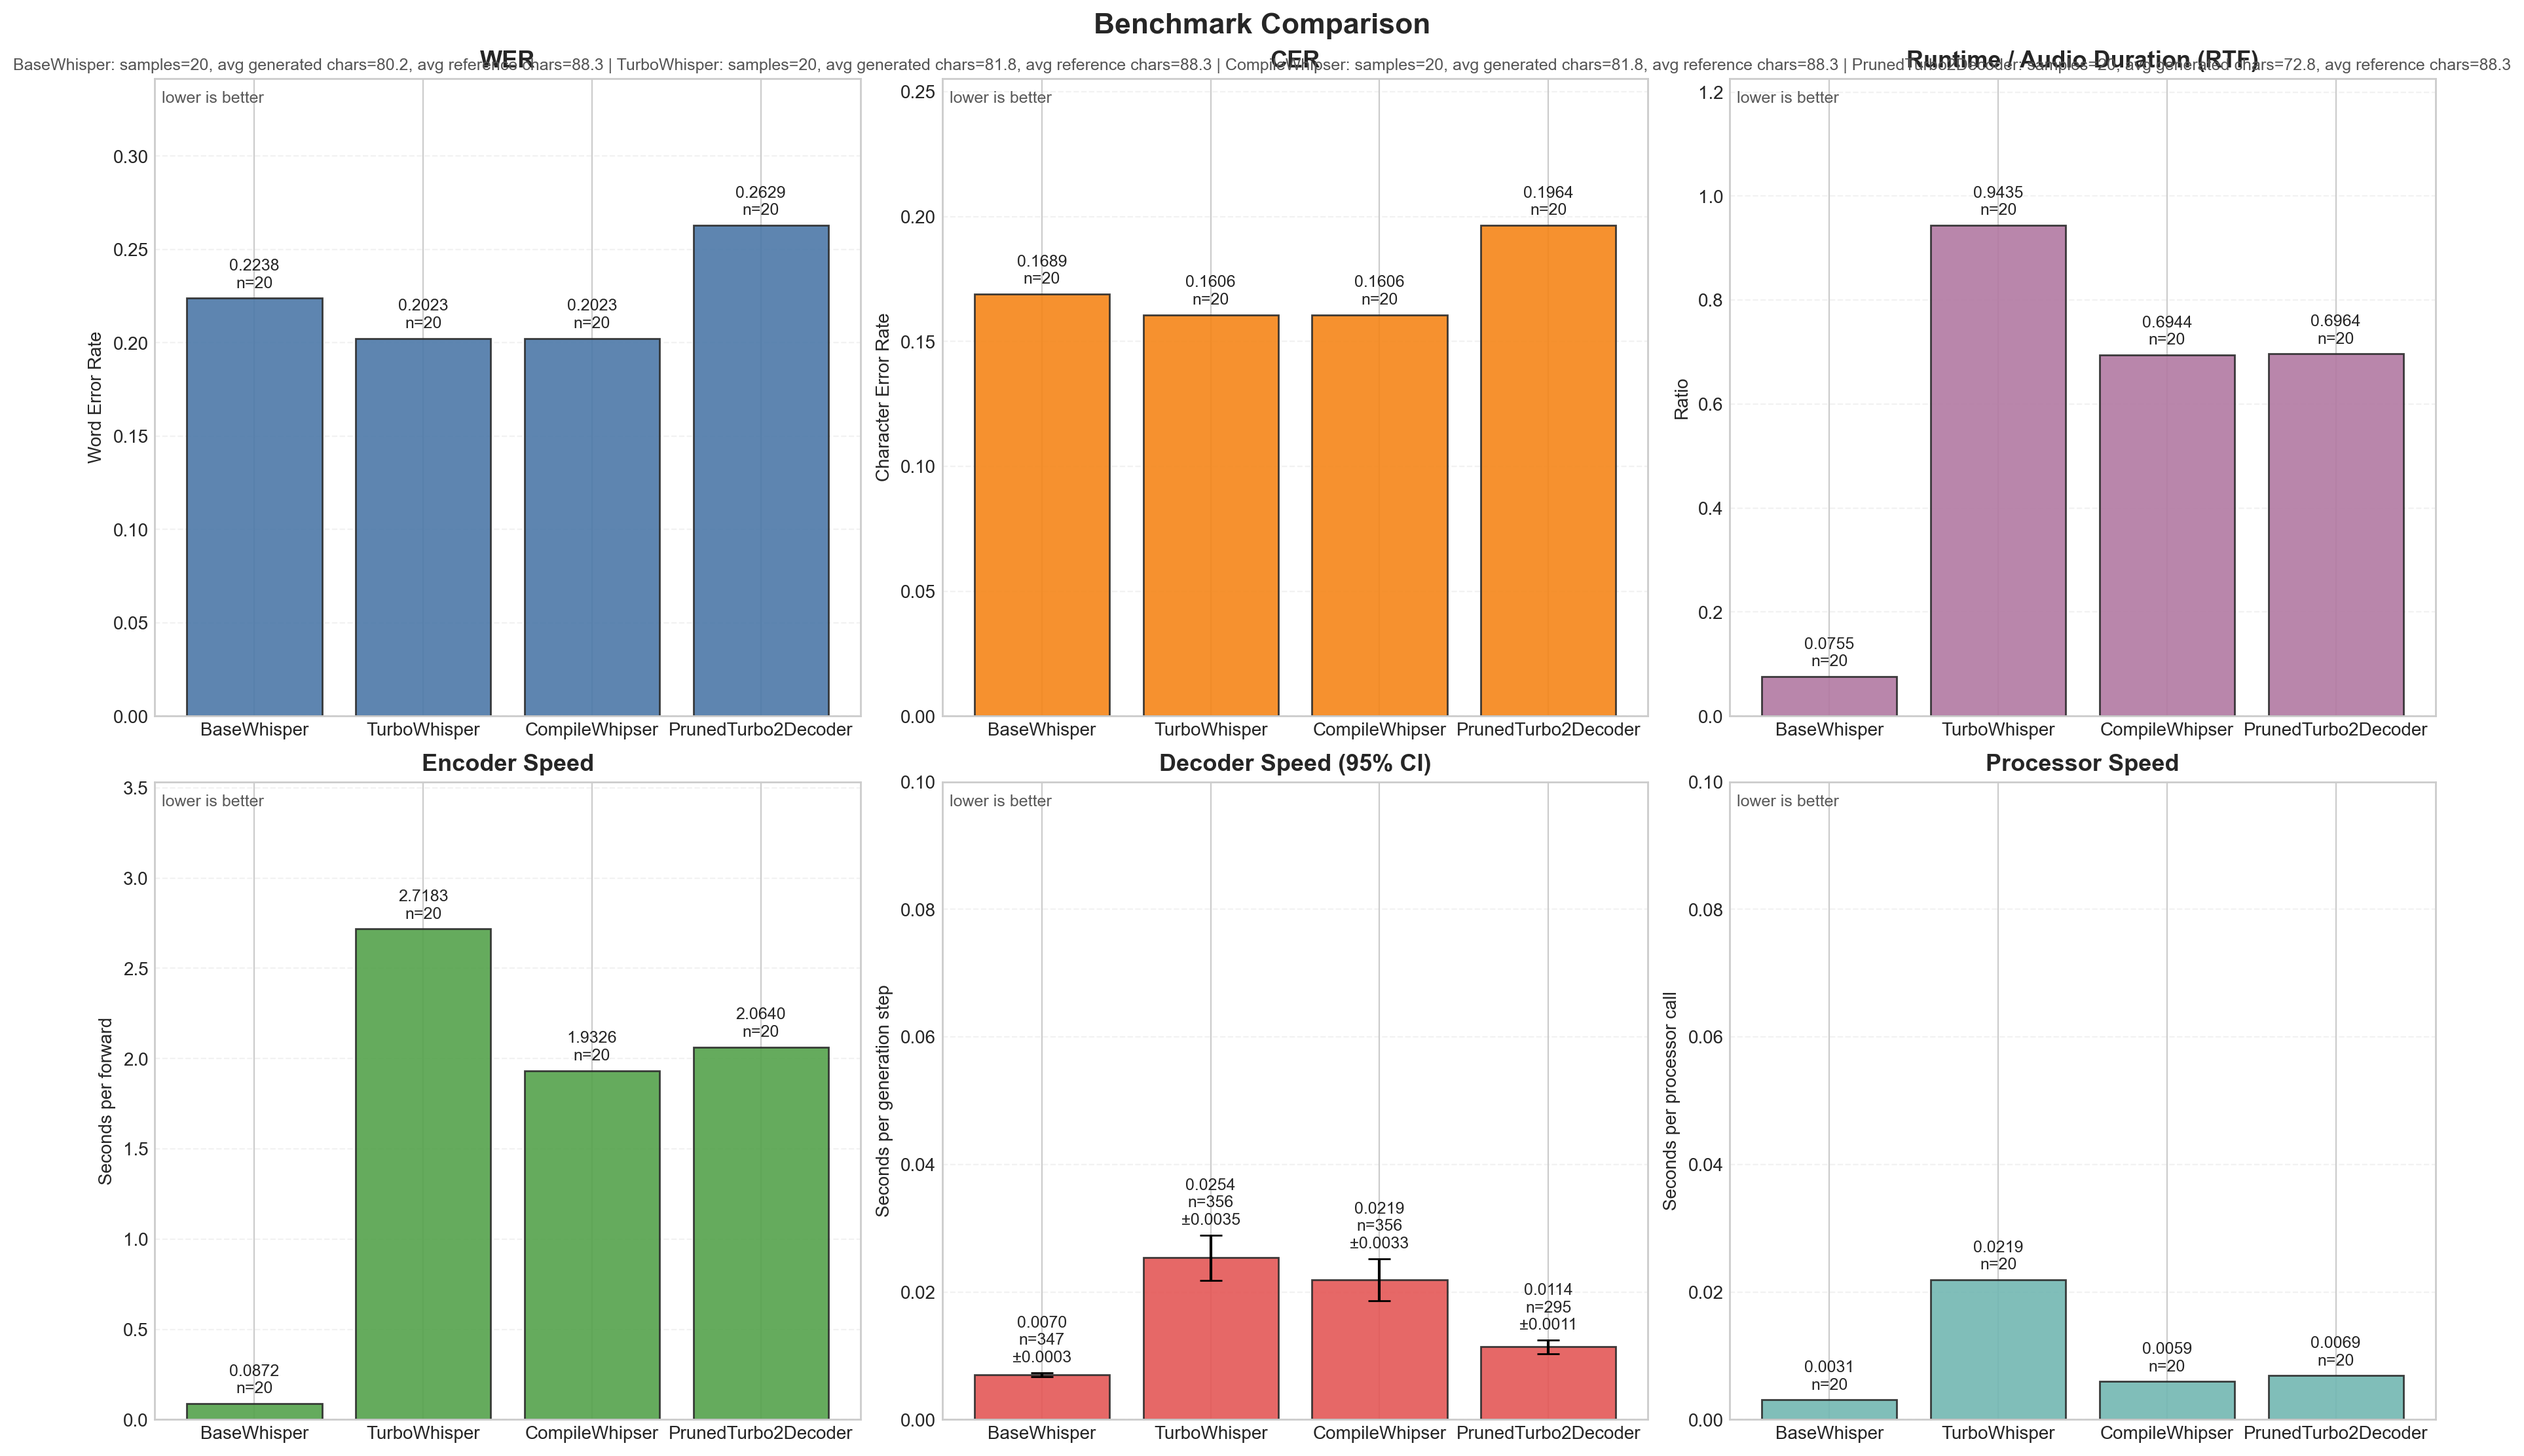
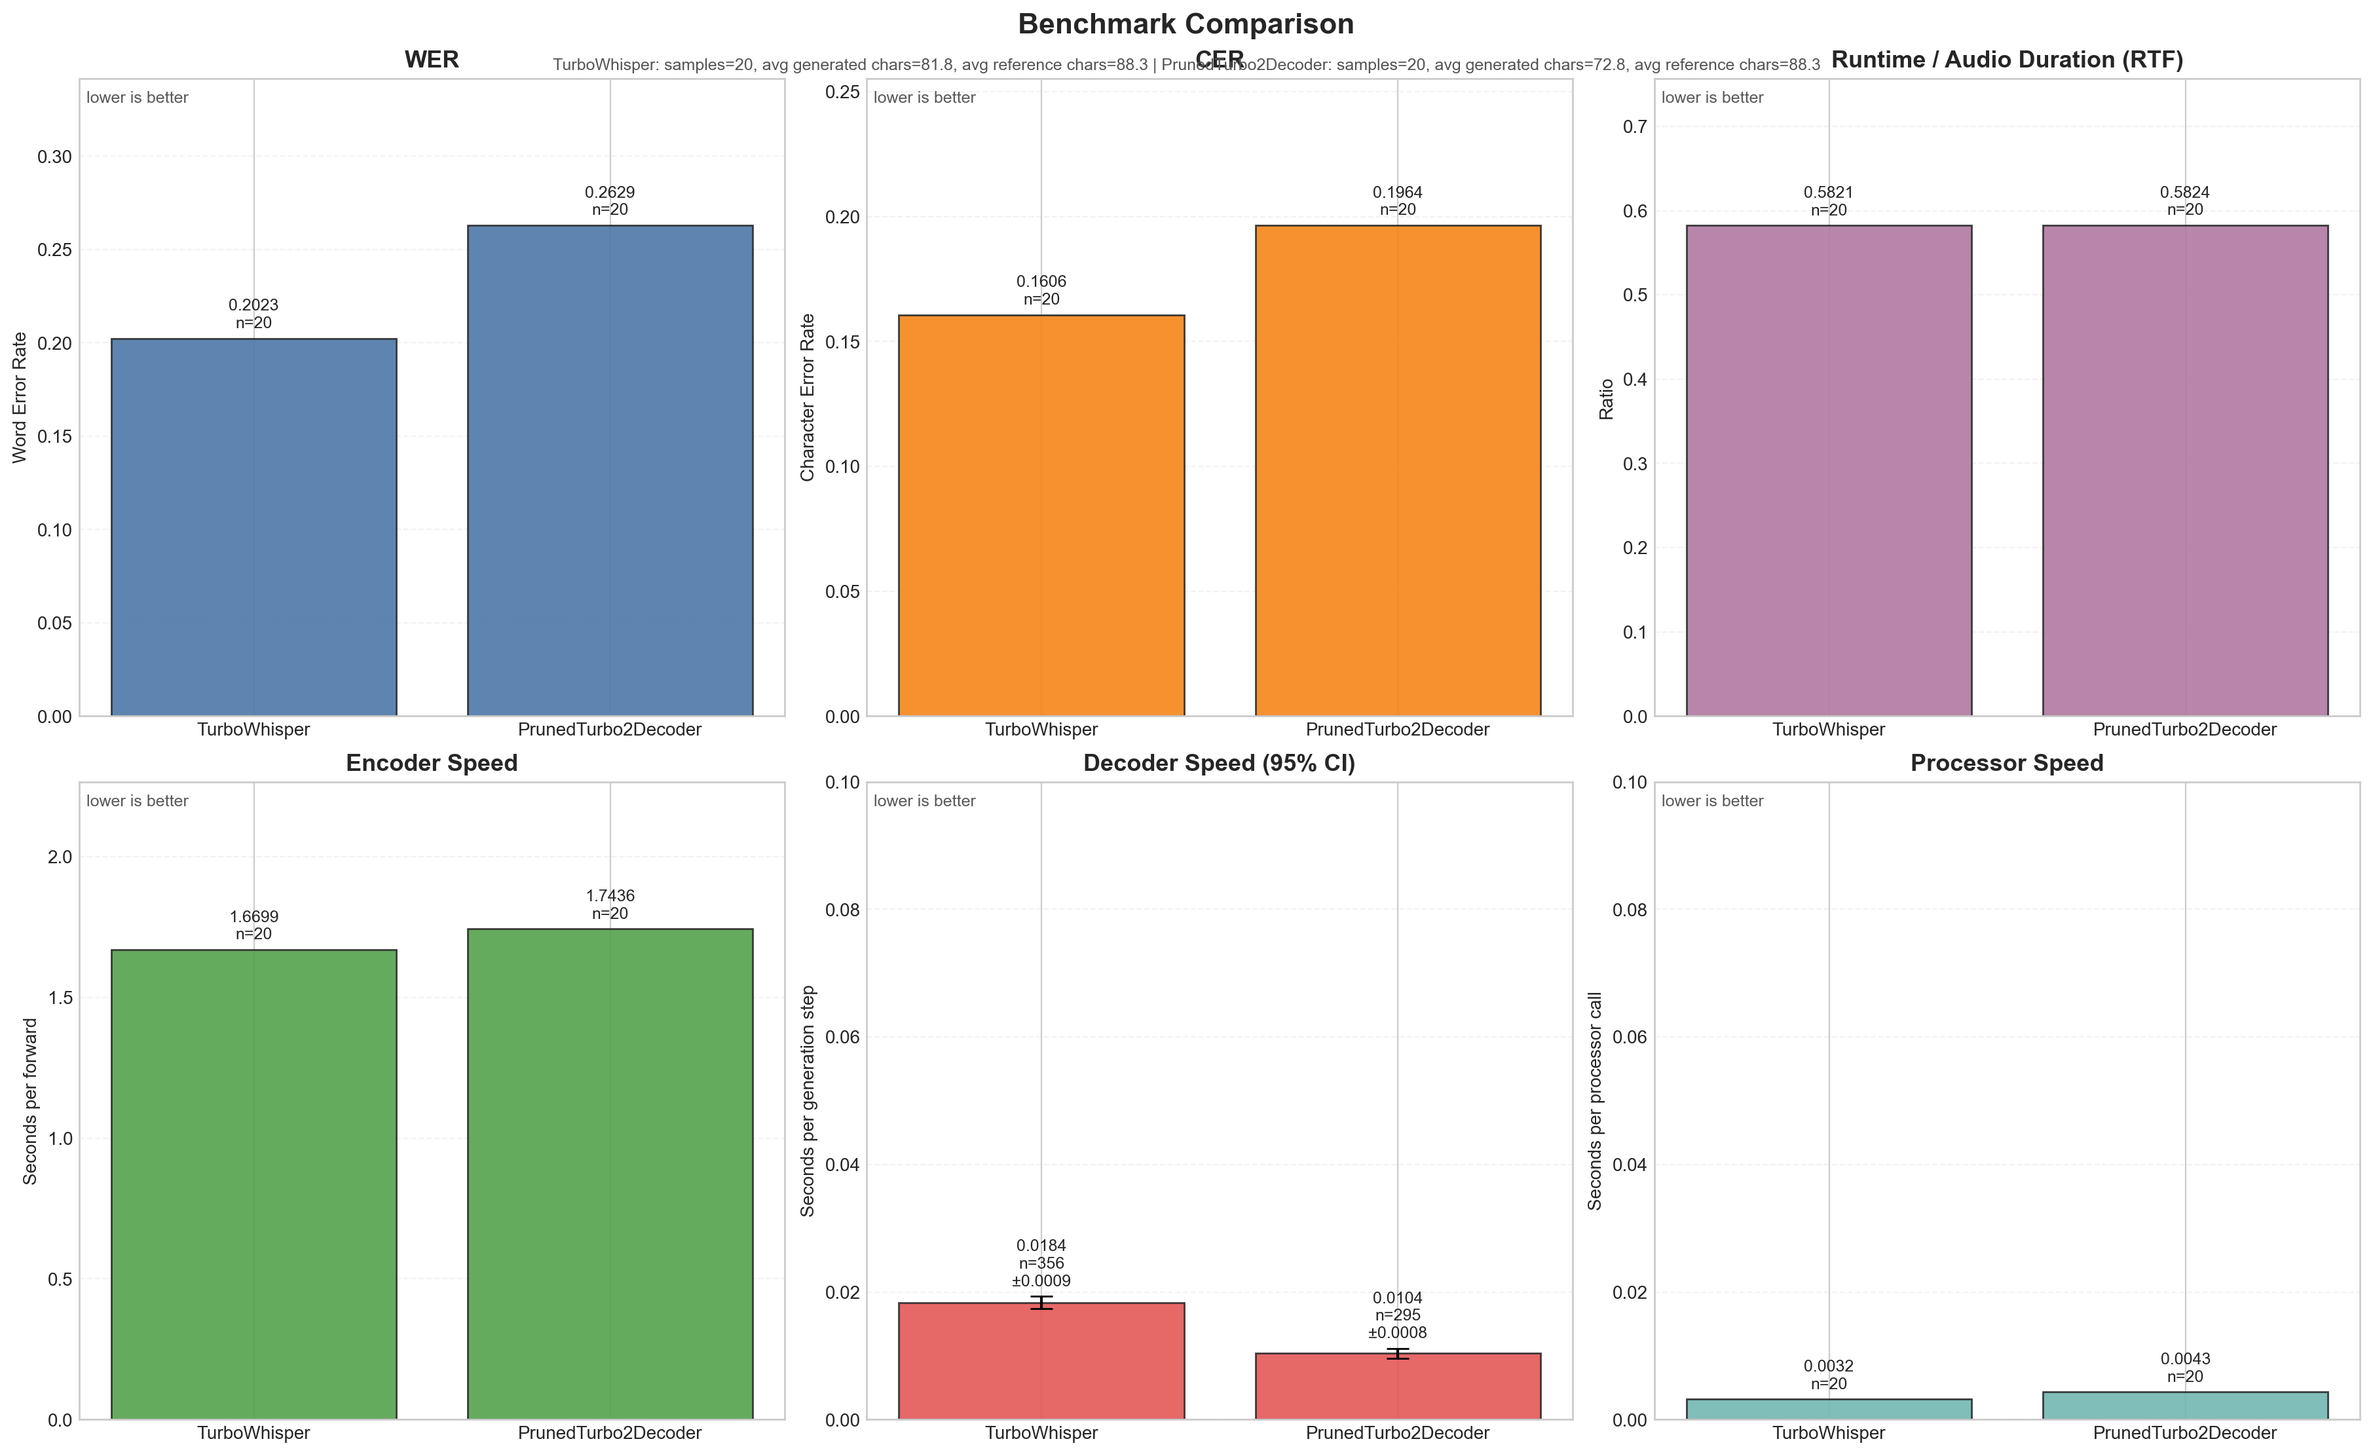
decoder fix

diff --git a/src/metrics.py b/src/metrics.py
@@ -7,7 +7,7 @@ import torch
 import torch.nn as nn
 from torch.profiler import ProfilerActivity, profile, record_function
 from tqdm import tqdm
-from transformers import WhisperProcessor
+from transformers import WhisperFeatureExtractor, WhisperProcessor
 
 from audio_datasets import AudioTextDataset
 from baseline_models import (
@@ -28,21 +28,39 @@ from utils import (
 PRUNED_TURBO_CHECKPOINT = "2DecoderModelWeights"
 
 
+def load_whisper_processor(
+    source: str,
+    expected_feature_size: int | None = None,
+) -> WhisperProcessor:
+    processor = WhisperProcessor.from_pretrained(source)
+
+    if expected_feature_size is None:
+        return processor
+
+    if processor.feature_extractor.feature_size == expected_feature_size:
+        return processor
+
+    feature_kwargs = processor.feature_extractor.to_dict()
+    feature_kwargs["feature_size"] = expected_feature_size
+    feature_extractor = WhisperFeatureExtractor(**feature_kwargs)
+    return WhisperProcessor(feature_extractor=feature_extractor, tokenizer=processor.tokenizer)
+
+
 # Models are expected to expose `model.encoder` and `model.decoder`.
 @dataclass
 class ModelsForBenchmark:
-    BaseWhisper: nn.Module | None = BaselineSmall()()
+    #BaseWhisper: nn.Module | None = BaselineSmall()()
     TurboWhisper: nn.Module | None = BaselineTurboParams()()
-    LargeV3Whisper: nn.Module | None = BaselineLarge()()
-    CompileWhipser: nn.Module | None = TorchCompileTurboParams()()
+    #LargeV3Whisper: nn.Module | None = BaselineLarge()()
+    #CompileWhipser: nn.Module | None = TorchCompileTurboParams()()
     PrunedTurbo2Decoder: nn.Module | None = PrunedTurboDecoder(PRUNED_TURBO_CHECKPOINT)()
 
 @dataclass
 class ProcessingOptions:
-    BaseWhisper: str = "openai/whisper-base"
+    #BaseWhisper: str = "openai/whisper-base"
     TurboWhisper: str = "openai/whisper-large-v3-turbo"
-    LargeV3Whisper: str = "openai/whisper-large-v3"
-    CompileWhipser: str = "openai/whisper-large-v3-turbo"
+    #LargeV3Whisper: str = "openai/whisper-large-v3"
+    #CompileWhipser: str = "openai/whisper-large-v3-turbo"
     PrunedTurbo2Decoder: str = PRUNED_TURBO_CHECKPOINT
 
 class Benchmark:
@@ -71,8 +89,14 @@ class Benchmark:
             self.models[field.name] = getattr(ModelsForBenchmark, field.name)
 
         for field in fields(ProcessingOptions):
-            self.processors[field.name] = WhisperProcessor.from_pretrained(
-                getattr(ProcessingOptions, field.name)
+            processor_source = getattr(ProcessingOptions, field.name)
+            expected_feature_size = None
+            if field.name == "PrunedTurbo2Decoder":
+                expected_feature_size = self.models[field.name].config.num_mel_bins
+
+            self.processors[field.name] = load_whisper_processor(
+                processor_source,
+                expected_feature_size=expected_feature_size,
             )
 
         for model in self.models.values():
@@ -211,16 +235,16 @@ if __name__ == "__main__":
         device="CPU",
         profiler=False
     )
-    results_small = bench.run("BaseWhisper", sample_size=20)
+    #results_small = bench.run("BaseWhisper", sample_size=20)
     results_base = bench.run("TurboWhisper", sample_size=20)
-    results_large_v3 = bench.run("LargeV3Whisper", sample_size=20)
-    results_large = bench.run("CompileWhipser", sample_size=20)
+    #results_large_v3 = bench.run("LargeV3Whisper", sample_size=20)
+    #results_large = bench.run("CompileWhipser", sample_size=20)
     results_pruned = bench.run("PrunedTurbo2Decoder", sample_size=20, print_predictions=True)
     results = {
-        "BaseWhisper": results_small,
+        #"BaseWhisper": results_small,
         "TurboWhisper": results_base,
-        "LargeV3Whisper": results_large_v3,
-        "CompileWhipser": results_large,
+        #"LargeV3Whisper": results_large_v3,
+        #"CompileWhipser": results_large,
         "PrunedTurbo2Decoder": results_pruned,
     }
     plot_benchmarks(results, "./plots.png")
